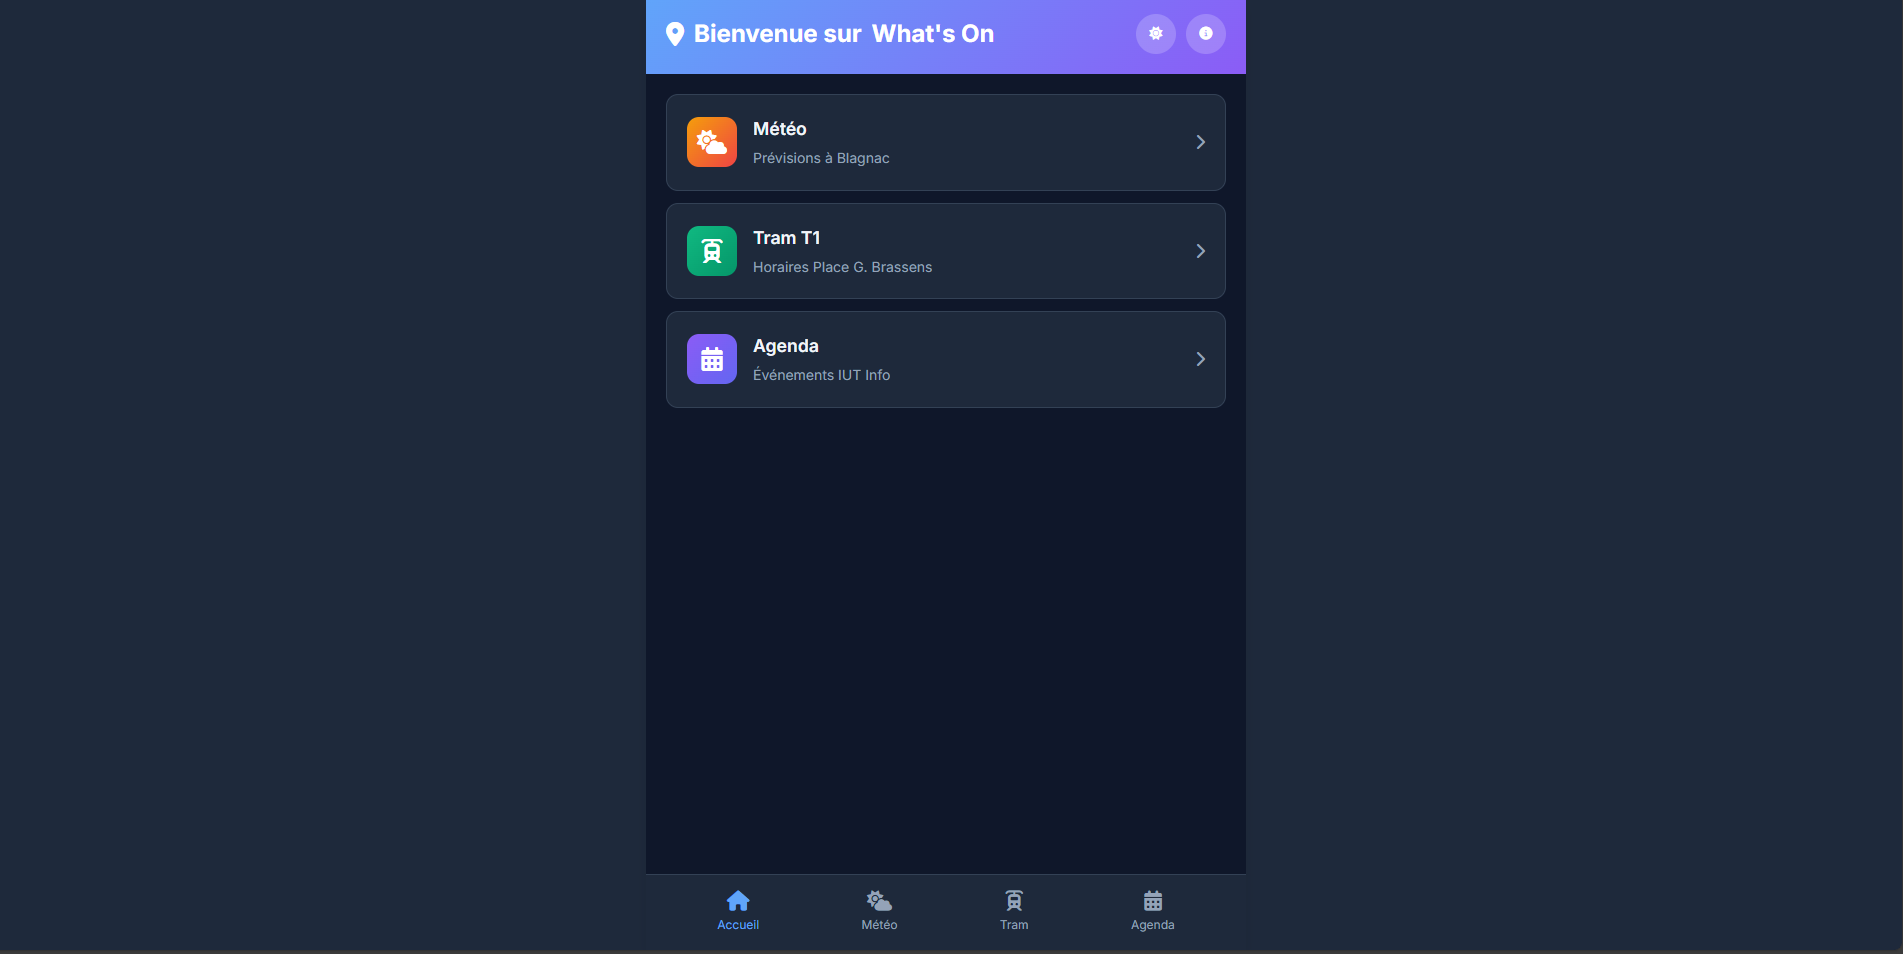
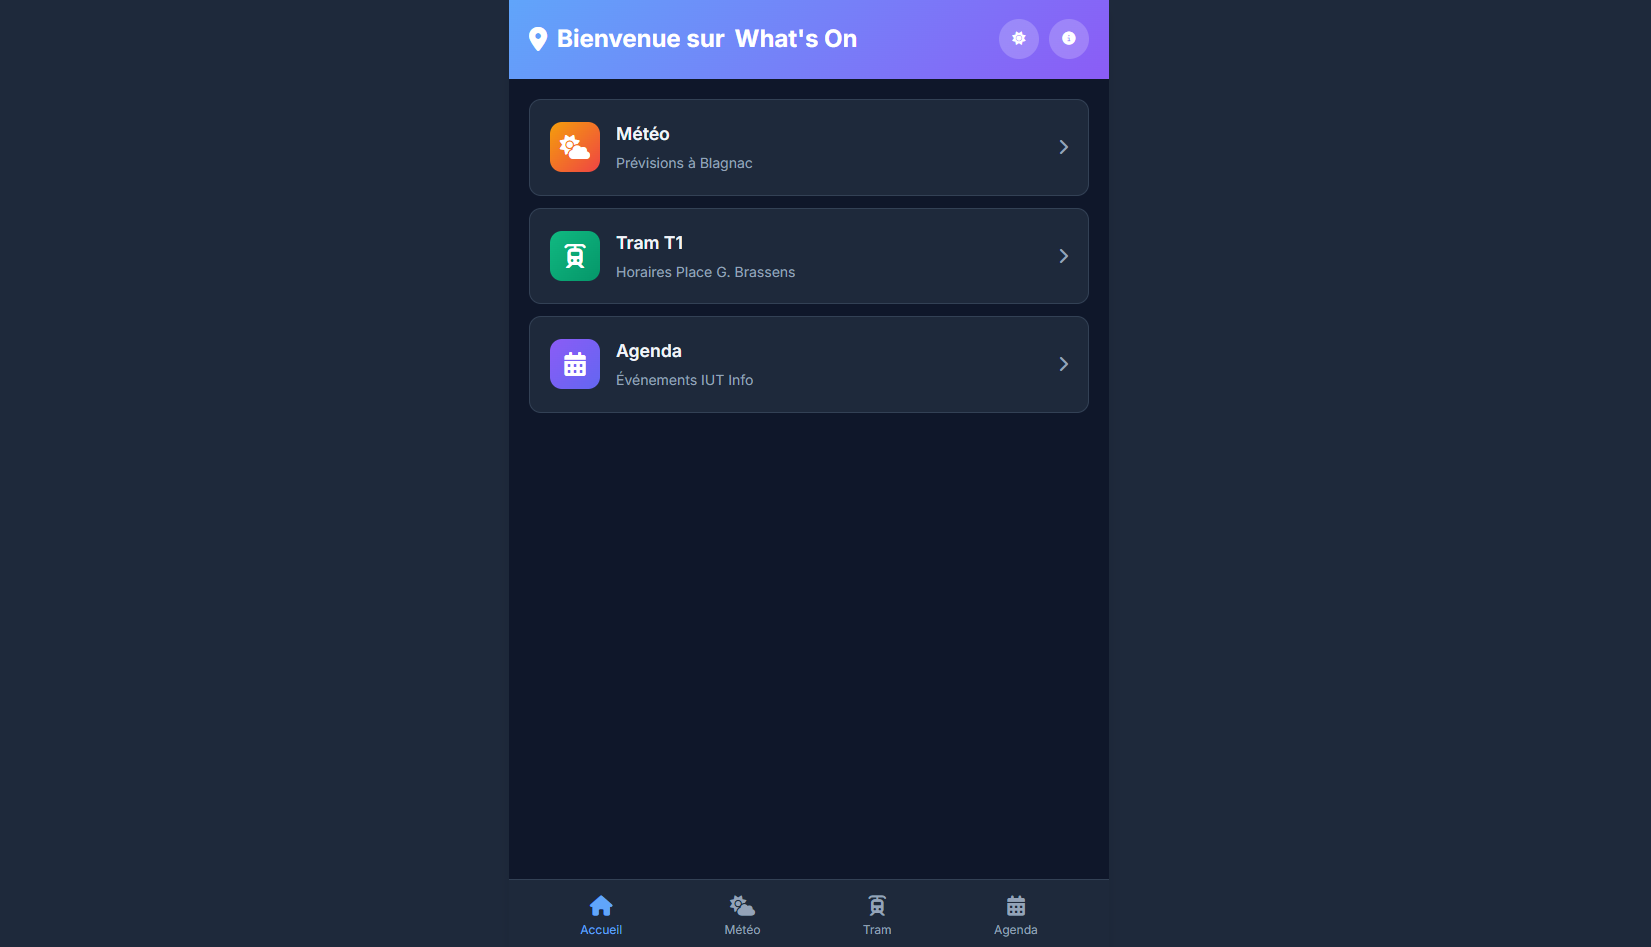
feat: add soft skills section and improve ui
- Add SoftSkill interface in About section
- Improve Header navigation UI
- Refine button styling on Hero section
- shorten contact form button text

Changed region(s): [[0.3089, 0.0, 0.6796, 0.1837], [0.0, 0.9187, 1.0, 1.0], [0.3089, 0.2144, 0.6178, 0.4287]]

diff --git a/src/data/data.tsx b/src/data/data.tsx
@@ -1,4 +1,4 @@
-import {ArrowDownTrayIcon, CalendarIcon, FlagIcon, MapIcon, SparklesIcon, AcademicCapIcon, BuildingOffice2Icon} from '@heroicons/react/24/outline';
+import {ArrowDownTrayIcon, CalendarIcon, FlagIcon, MapIcon} from '@heroicons/react/24/outline';
 import { BookOpenIcon, CircleStackIcon, CodeBracketIcon, EnvelopeIcon, ServerStackIcon, WrenchScrewdriverIcon } from '@heroicons/react/24/solid';
 import heroImage from '../images/notbad.jpg';
 import porfolioImage1 from '../images/portfolio/FabLabV2.png';
@@ -116,12 +116,15 @@ En parallèle, je découvre les bases des réseaux et des systèmes (Linux, noti
 Curieux et persévérant, je cherche à acquérir des bases solides plutôt qu’à me limiter à des connaissances superficielles, afin de pouvoir évoluer vers des rôles techniques plus avancés.\n
 Autonome de nature, je peux travailler seule ou en groupe, étant également capable de m’adapter à un environnement que je ne connais pas. Je sais faire preuve de force de proposition lorsque l’on m’en donne la liberté,`,
   aboutItems: [
-    {label: 'Localisation', text: 'Toulouse', Icon: MapIcon},
+    {label: 'Localisation', text: 'France, Lespinasse', Icon: MapIcon},
     {label: 'Âge', text: '24', Icon: CalendarIcon},
     {label: 'Nationalité', text: 'Français', Icon: FlagIcon},
-    {label: 'Intérêts', text: 'Motos, Muay Thai, Banjos', Icon: SparklesIcon},
-    {label: 'Études', text: 'Université de Victoria', Icon: AcademicCapIcon},
-    {label: 'Emploi', text: 'Instant Domains, inc.', Icon: BuildingOffice2Icon},
+  ],
+  softSkills: [
+    {title: 'Apprentissage continu'},
+    {title: 'Collaboration'},
+    {title: 'Esprit d\'équipe & réactif'},
+    {title: 'Autonomie'},
   ],
 };
 
@@ -293,7 +296,7 @@ export const portfolioItems: PortfolioItem[] = [
   },
   {
     title: `What's On`,
-    shortDescription: 'Application web centralisant des informations utiles pour étudiants du DUT de Blagnac.',
+    shortDescription: 'Application mobile centralisant des informations utiles pour étudiants du DUT de Blagnac.',
     stack: ['2019 | Formation','HTML', 'CSS', 'JavaScript', 'Font Awesome', 'API REST', ],
     description: `- Météo, horaires tram T1, agenda événements
 - Projet collaboratif en gestion de projet
@@ -425,11 +428,6 @@ export const contact: ContactSection = {
       type: ContactType.Email,
       text: 'DzawaEmile@gmail.com',
       href: 'mailto:DzawaEmile@gmail.com',
-    },
-    {
-      type: ContactType.Location,
-      text: 'Lespinasse, France',
-      href: 'https://www.google.ca/maps/place/Lespinasse,+France',
     },
     {
       type: ContactType.Github,

diff --git a/src/components/Sections/Header.tsx b/src/components/Sections/Header.tsx
@@ -64,9 +64,9 @@ const DesktopNav: FC<{navSections: SectionId[]; currentSection: SectionId | null
             className={classNames(
               "absolute inset-0 z-0",
               // Glisser depuis la droite quand le menu s'ouvre
-              isOpen && "bg-neutral-900/70 animate-slideInRight",
+              isOpen && "bg-neutral-900/80 animate-slideInRight",
               // Glisser vers la droite quand le menu se ferme (après que les éléments de nav disparaissent)
-              !isOpen && hasBeenOpened && "bg-neutral-900/70 animate-slideOutLeft",
+              !isOpen && hasBeenOpened && "bg-neutral-900/80 animate-slideOutLeft",
             )}
             // Retarder la sortie du fond de 0.6s pour permettre aux éléments de nav de s'estomper d'abord, puis persister l'état caché
             style={!isOpen && hasBeenOpened ? {animationDelay: '0.6s', animationFillMode: 'forwards'} : {}}
@@ -74,7 +74,7 @@ const DesktopNav: FC<{navSections: SectionId[]; currentSection: SectionId | null
           
           {/* Logo - côté gauche, toujours visible */}
           <a href="/" className="relative z-10 p-2 ml-4">
-            <img src="/favicon-96x96.png" alt="logo" className="w-16 h-16" />
+            <img src="/favicon-96x96.png" alt="logo" className="w-20 h-20" />
           </a>
           
           {/* Éléments de navigation - centrés, avec animations d'apparition/disparition échelonnées, désactivés à la fermeture */}
@@ -95,8 +95,8 @@ const DesktopNav: FC<{navSections: SectionId[]; currentSection: SectionId | null
           </nav>
           
           {/* Bouton de basculement du menu - côté droit */}
-          <button className="relative rounded-md z-10 p-3 bg-[#0B0A0D] mr-4" aria-label="Menu" onClick={handleClick}>
-            <Bars2Icon className="h-6 w-6 text-white" />
+          <button className="relative rounded-full z-10 p-3 bg-white/90 mr-4" aria-label="Menu" onClick={handleClick}>
+            <Bars2Icon className="h-6 w-6 text-neutral-900" />
           </button>
         </div>
       </header>

diff --git a/src/components/Sections/About.tsx b/src/components/Sections/About.tsx
@@ -6,7 +6,7 @@ import {aboutData, SectionId} from '../../data/data';
 import Section from '../Layout/Section';
 
 const About: FC = memo(() => {
-  const {profileImageSrc, description, aboutItems,} = aboutData;
+  const {profileImageSrc, description, aboutItems, softSkills} = aboutData;
   return (
     <Section className="bg-white " sectionId={SectionId.About} maxWidth="max-w-[1260px]">
       {/* Wrapper pour la grille et les skills */}
@@ -17,8 +17,8 @@ const About: FC = memo(() => {
           <div className="col-span-1 md:col-span-2 flex flex-col justify-between">
             {/* Image */}
             <div className="flex justify-center">
-              <div className="relative h-32 w-32 overflow-hidden md:h-[30rem] md:w-[30rem]">
-                <Image alt="about-me-image" className="h-full w-full object-contain rounded-lg" src={profileImageSrc} />
+              <div className="relative h-32 w-32 rounded-md overflow-hidden md:h-[30rem] md:w-[30rem]">
+                <Image alt="about-me-image" className="h-full w-full object-contain  rounded-full" src={profileImageSrc} />
               </div>
             </div>
             {/* Infos sous l'image */}
@@ -45,7 +45,16 @@ const About: FC = memo(() => {
           </div>
         </div>
 
-
+        {/* Section Savoir-faire */}
+        {softSkills && softSkills.length > 0 && (
+          <div className="grid grid-cols-2 sm:grid-cols-4 gap-4">
+            {softSkills.map((skill, idx) => (
+              <div key={idx} className="bg-gray-100 border border-gray-300 rounded-md p-4 text-center">
+                <span className="text-sm font-semibold text-black" style={{fontFamily: 'Noto SD 500, sans-serif'}}>{skill.title}</span>
+              </div>
+            ))}
+          </div>
+        )}
       </div>
     </Section>
   );

diff --git a/src/components/Sections/Hero.tsx b/src/components/Sections/Hero.tsx
@@ -30,7 +30,7 @@ const Hero: FC = memo(() => {
             <div className="flex w-full justify-center gap-x-4 flex-wrap">
               {actions.map(({href, text, Icon, color}) => (
                 <a className={classNames(
-                    'flex mt-4 gap-x-2 sm:gap-x-4 ' + color + ' px-6 py-2 sm:px-24 sm:py-3 text-sm sm:text-base font-medium text-white sm:text-lg transition-colors hover-pulsate'
+                    'flex mt-4 gap-x-2 sm:gap-x-4 rounded-full ' + color + ' px-6 py-2 sm:px-24 sm:py-3 text-sm sm:text-base font-medium text-white sm:text-lg transition-colors hover-pulsate'
                   )}
                   href={href}
                   key={text}>

diff --git a/src/components/Sections/Contact/ContactForm.tsx b/src/components/Sections/Contact/ContactForm.tsx
@@ -129,7 +129,7 @@ const ContactForm: FC = memo(() => {
           className="w-max rounded-full border-2 bg-stone-900 px-4 py-2 text-sm font-medium text-white shadow-md outline-none hover:bg-stone-800 focus:ring-2 focus:ring-orange-600 focus:ring-offset-2 focus:ring-offset-stone-800 disabled:opacity-50 disabled:cursor-not-allowed"
           disabled={isLoading}
           type="submit">
-          {isLoading ? 'Envoi en cours...' : 'Envoyer votre message'}
+          {isLoading ? 'Envoi en cours...' : 'Envoyer'}
         </button>
       </form>
       {statusMessage && (

diff --git a/src/components/Sections/Portfolio.tsx b/src/components/Sections/Portfolio.tsx
@@ -90,7 +90,7 @@ const ItemOverlay: FC<{item: PortfolioItem}> = memo(({item: {url, title, descrip
         ref={linkRef}
         target={videoUrl ? undefined : "_blank"}>
         <div className="relative h-full w-full p-4">
-          <div className="flex h-full w-full flex-col gap-y-2 overflow-y-auto overscroll-contain">
+          <div className="flex h-full w-full flex-col gap-y-2 overflow-y-auto">
             {/* Titre du projet */}
             <h2 className="text-center font-bold text-white opacity-100">{title}</h2>
             

diff --git a/src/data/dataDef.ts b/src/data/dataDef.ts
@@ -41,12 +41,18 @@ export interface About {
   profileImageSrc?: string;
   description: string;
   aboutItems: AboutItem[];
+  softSkills?: SoftSkill[];
 }
 
 export interface AboutItem {
   label: string;
   text: string;
   Icon?: ForwardRefExoticComponent<Omit<SVGProps<SVGSVGElement>, 'ref'>>;
+}
+
+export interface SoftSkill {
+  title: string;
+  description?: string;
 }
 
 /**
